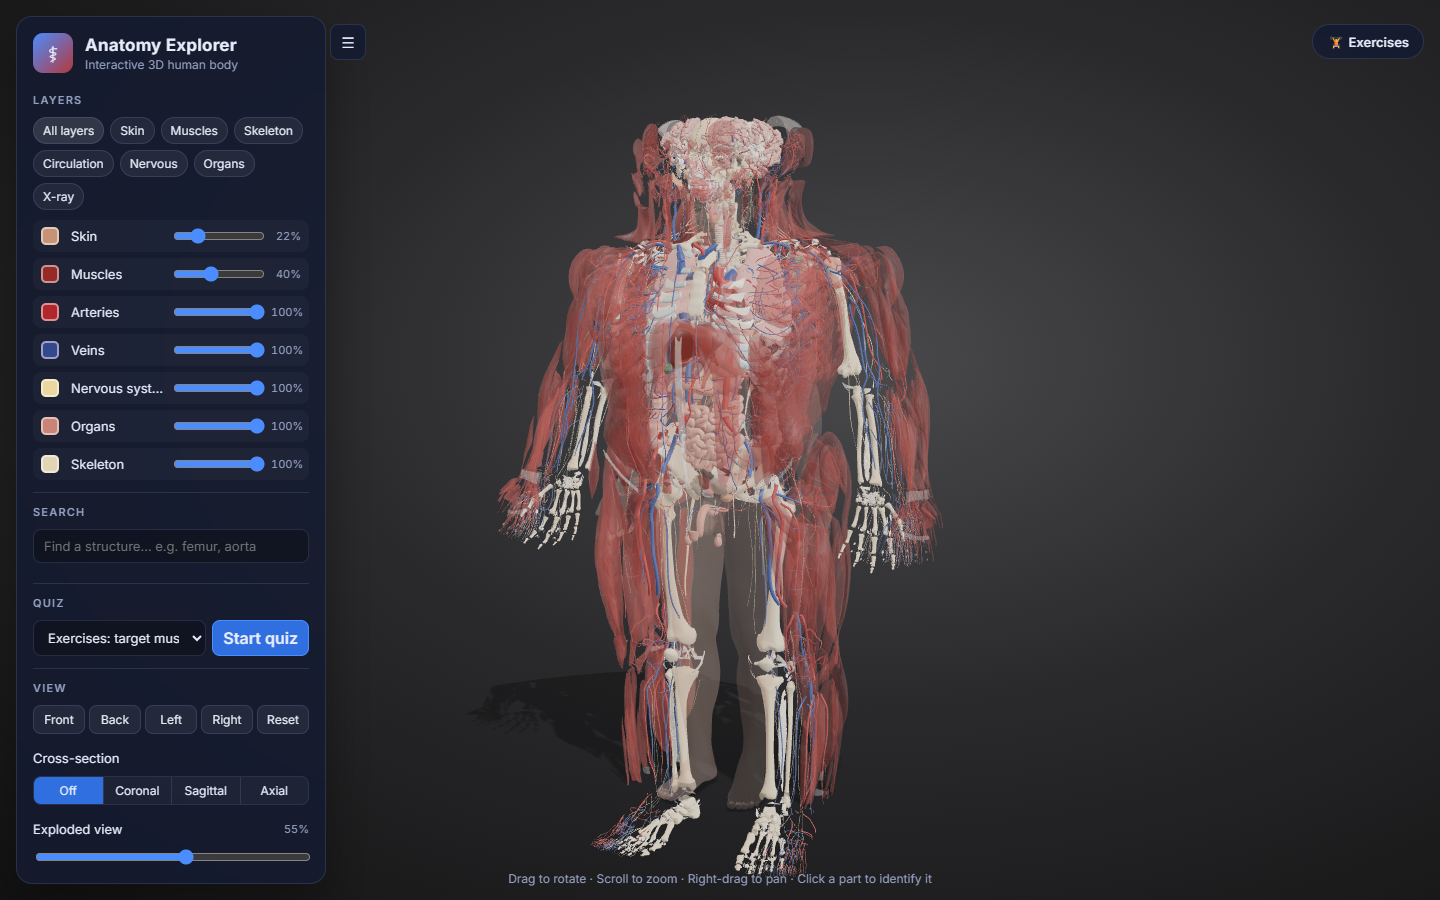
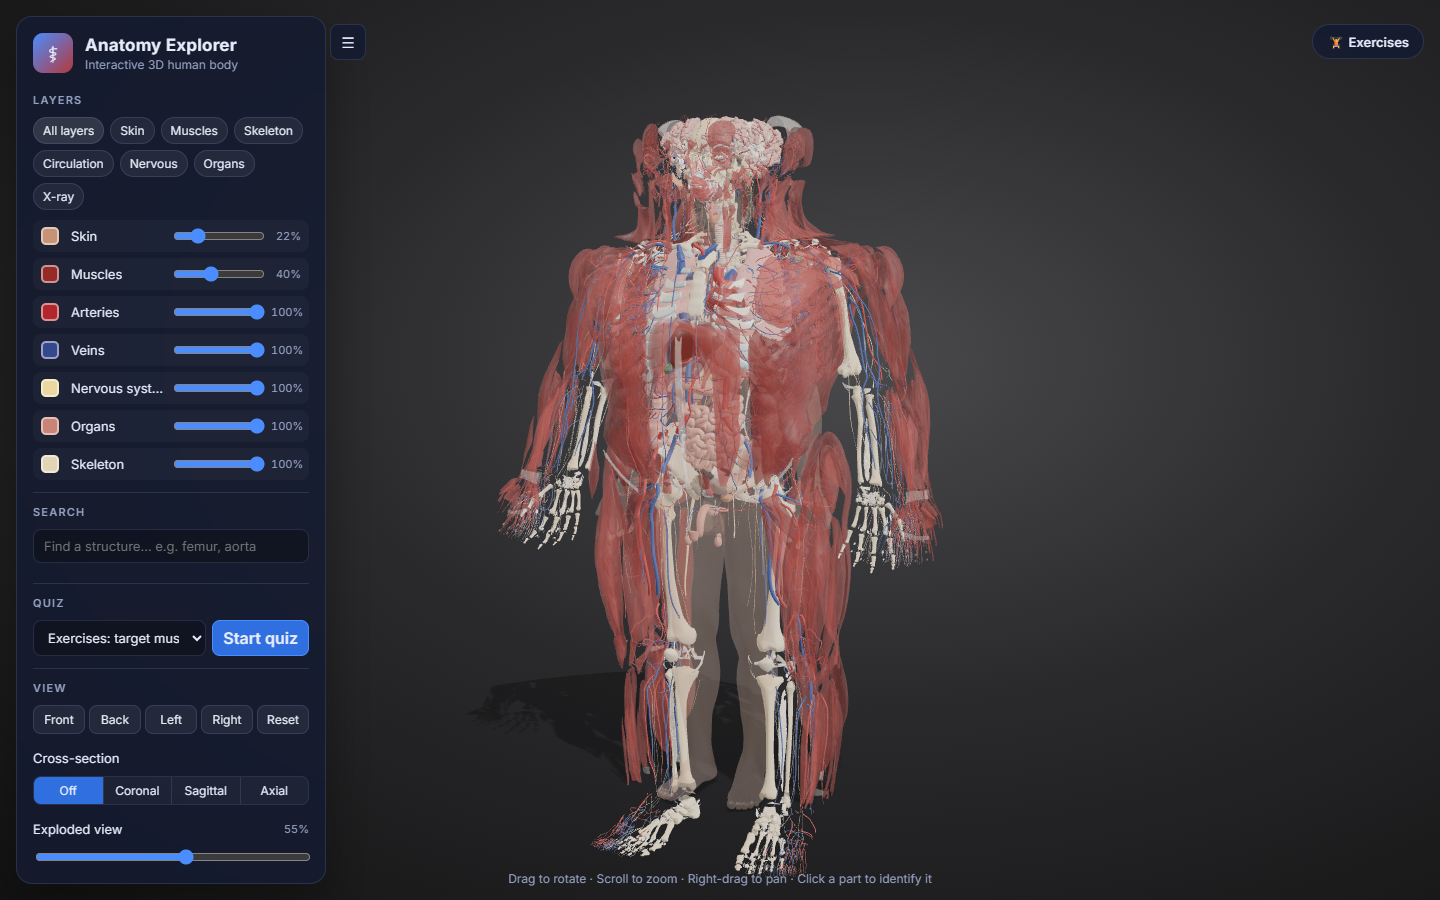
Fix half the body looking flat while slicing
Many parts on the body's left side are stored inside-out in the source model (triangles and normals
facing inward), and the skin merges such a half with a correct one. Double-sided rendering hid this,
but the slicer shades back faces as cut tissue, so the whole left side turned flat.
While loading, each connected piece of a part is now checked by its signed volume and turned right
side out when negative. README cross-section screenshots retaken.

diff --git a/src/body/loadBody.js b/src/body/loadBody.js
@@ -30,6 +30,75 @@ function parseName(raw) {
   return { id: slugify(name), side: m ? (m[2] === 'l' ? 1 : -1) : 0, name };
 }
 
+let insideOutCount = 0;
+
+/**
+ * Groups a mesh's triangles into connected pieces (triangles that share a vertex).
+ * Returns, for each triangle, the id of its piece.
+ */
+function trianglePieces(index, vertexCount) {
+  const parent = new Int32Array(vertexCount).map((_, i) => i);
+  const find = (x) => {
+    while (parent[x] !== x) x = parent[x] = parent[parent[x]];
+    return x;
+  };
+  for (let i = 0; i < index.length; i += 3) {
+    const a = find(index[i]);
+    parent[find(index[i + 1])] = a;
+    parent[find(index[i + 2])] = a;
+  }
+  const piece = new Int32Array(index.length / 3);
+  for (let t = 0; t < piece.length; t++) piece[t] = find(index[t * 3]);
+  return piece;
+}
+
+/**
+ * Turns inside-out pieces of a mesh right side out. Many parts on the body's left side were mirrored
+ * in the source model and face inward (triangles and normals both); some, like the skin, were then
+ * merged with correct right-side halves. Both sides are drawn, so that's invisible, but the slicer
+ * shades back faces as cut tissue. A piece is inside-out when its signed volume, measured from its own
+ * centre, is negative. Returns how many pieces were flipped.
+ */
+function fixInsideOut(pos, nor, index) {
+  const piece = trianglePieces(index, pos.length / 3);
+  const centre = new Map(); // piece -> [sx, sy, sz, n]
+  for (let t = 0; t < piece.length; t++) {
+    const c = centre.get(piece[t]) ?? [0, 0, 0, 0];
+    for (let k = 0; k < 3; k++) {
+      const v = index[t * 3 + k] * 3;
+      c[0] += pos[v];
+      c[1] += pos[v + 1];
+      c[2] += pos[v + 2];
+    }
+    c[3] += 3;
+    centre.set(piece[t], c);
+  }
+  const volume = new Map();
+  for (let t = 0; t < piece.length; t++) {
+    const [sx, sy, sz, n] = centre.get(piece[t]);
+    const cx = sx / n, cy = sy / n, cz = sz / n;
+    const a = index[t * 3] * 3, b = index[t * 3 + 1] * 3, d = index[t * 3 + 2] * 3;
+    const ax = pos[a] - cx, ay = pos[a + 1] - cy, az = pos[a + 2] - cz;
+    const bx = pos[b] - cx, by = pos[b + 1] - cy, bz = pos[b + 2] - cz;
+    const dx = pos[d] - cx, dy = pos[d + 1] - cy, dz = pos[d + 2] - cz;
+    const v = ax * (by * dz - bz * dy) - ay * (bx * dz - bz * dx) + az * (bx * dy - by * dx);
+    volume.set(piece[t], (volume.get(piece[t]) ?? 0) + v);
+  }
+  const flip = new Set([...volume].filter(([, v]) => v < 0).map(([p]) => p));
+  if (!flip.size) return 0;
+  const flipped = new Uint8Array(pos.length / 3);
+  for (let t = 0; t < piece.length; t++) {
+    if (!flip.has(piece[t])) continue;
+    const i = t * 3;
+    [index[i + 1], index[i + 2]] = [index[i + 2], index[i + 1]];
+    for (let k = 0; k < 3; k++) flipped[index[i + k]] = 1;
+  }
+  for (let v = 0; v < flipped.length; v++) {
+    if (flipped[v]) for (let k = 0; k < 3; k++) nor[v * 3 + k] = -nor[v * 3 + k];
+  }
+  return flip.size;
+}
+
 /**
  * Copy of a loaded primitive in plain float32 world space. The GLBs store quantized vertices
  * that rely on their node transform; BatchedMesh needs identical attribute layouts and no transforms.
@@ -54,8 +123,13 @@ function bakeGeometry(mesh) {
   const geo = new THREE.BufferGeometry();
   geo.setAttribute('position', new THREE.BufferAttribute(pos, 3));
   geo.setAttribute('normal', new THREE.BufferAttribute(nor, 3));
-  geo.setIndex(src.index ? Array.from(src.index.array) : [...Array(n).keys()]);
+  const index = src.index ? Array.from(src.index.array) : [...Array(n).keys()];
+  geo.setIndex(index);
   geo.applyMatrix4(mesh.matrixWorld);
+  if (sn) {
+    insideOutCount += fixInsideOut(geo.attributes.position.array, geo.attributes.normal.array, index);
+    geo.setIndex(index);
+  }
   if (!sn) geo.computeVertexNormals();
   return geo;
 }
@@ -106,7 +180,9 @@ export async function loadBody(onProgress = () => {}) {
     }
     return entries;
   };
+  insideOutCount = 0;
   const entries = (await Promise.all(LAYERS.map((l) => loadLayer(l.id)))).flat();
+  console.debug(`${insideOutCount} inside-out pieces turned right side out`);
 
   // 2. Stand the body on the floor, centred, about 1.75 m tall whatever the source units.
   const box = new THREE.Box3();
